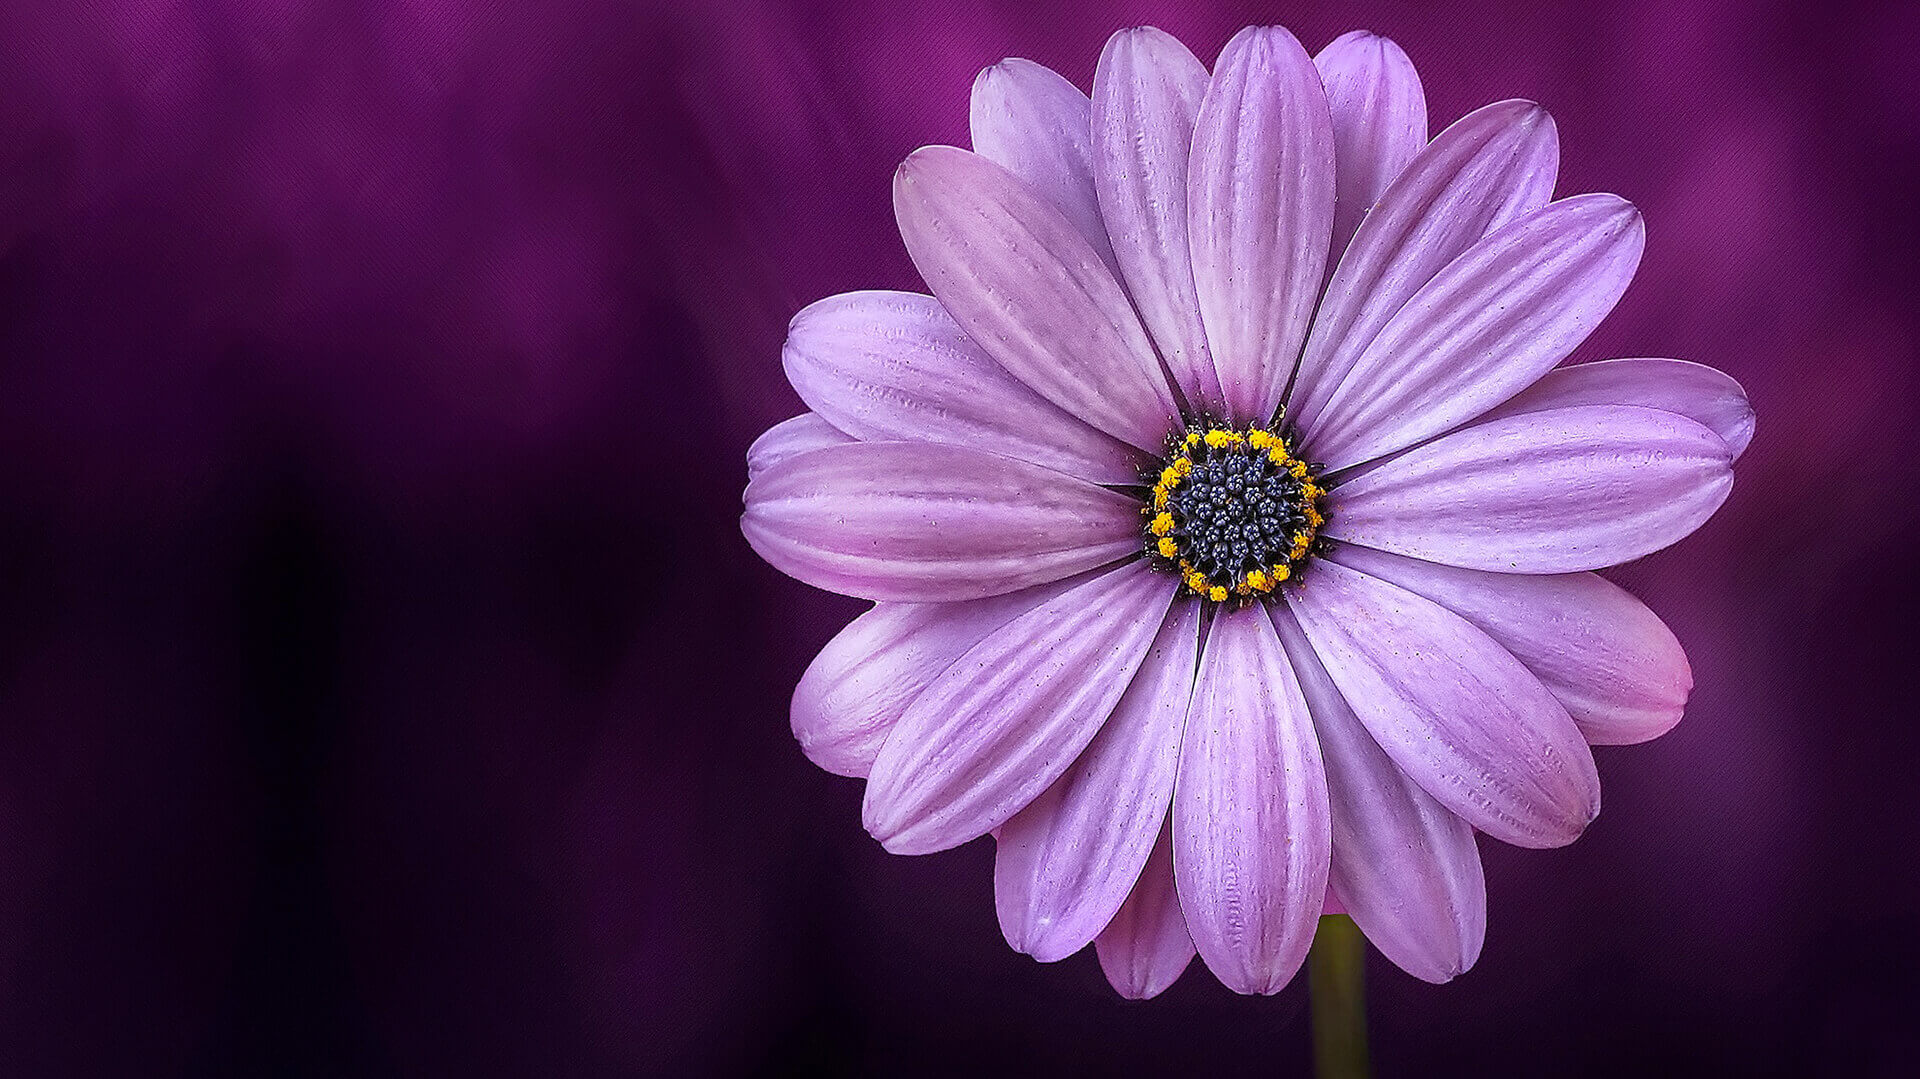
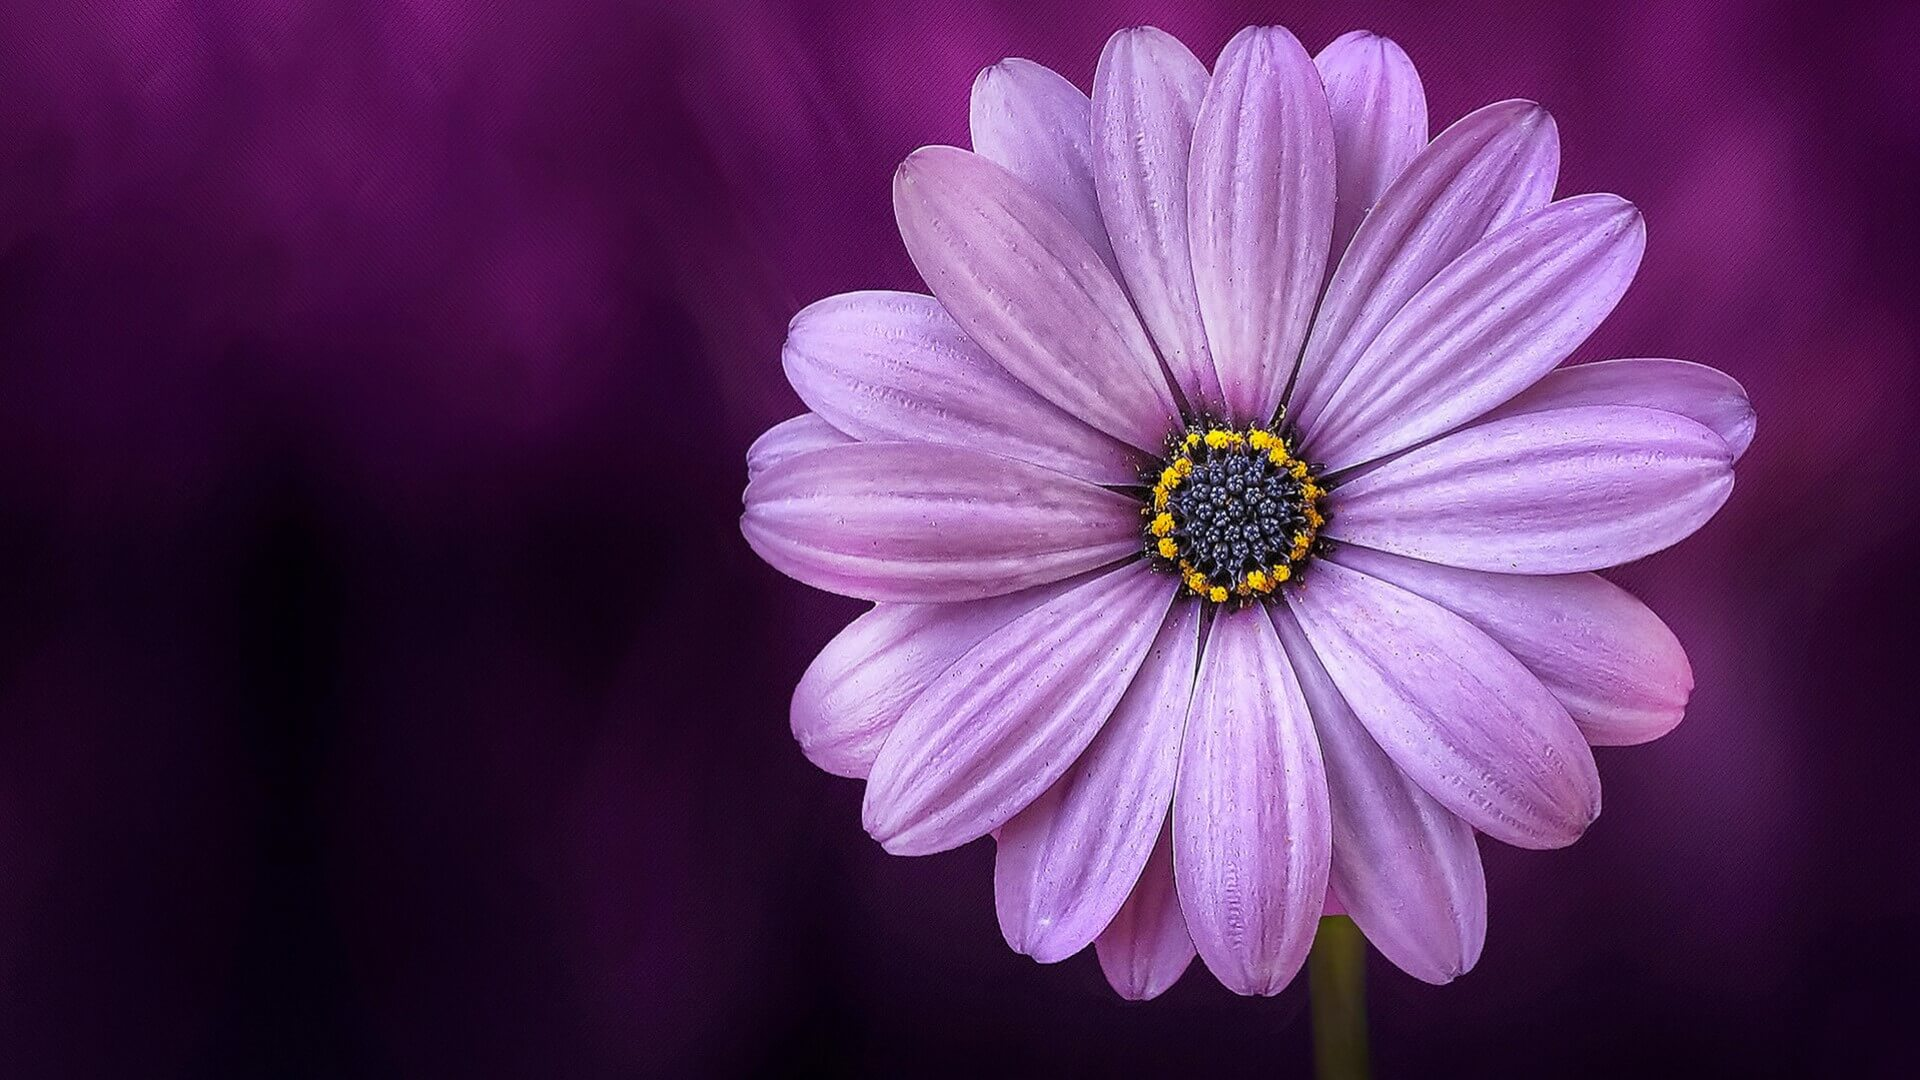
minor optimization and update

diff --git a/index.html b/index.html
@@ -130,7 +130,7 @@
         <!-- Cascade Style Sheets Files (CSS)-->
         <!-- Google Fonts-->
         <link href="https://fonts.googleapis.com/css?family=Merriweather+Sans:400,700&display=swap" rel="stylesheet preload" as="style" type="text/css" crossorigin="anonymous" media="all" />
-        <link href="https://fonts.googleapis.com/css?family=Merriweather:400,300,300italic,400italic,700,700italic&display=swap" rel="stylesheet preload" as="style" type="text/css" crossorigin="anonymous" media="all" />      
+        <link href="https://fonts.googleapis.com/css?family=Merriweather:400,300,300italic,400italic,700,700italic&display=swap" rel="stylesheet preload" as="style" type="text/css" crossorigin="anonymous" media="all" />
         <!-- Core Theme CSS (Includes Bootstrap 5.1.0)-->
         <link href="css/styles.css" rel="stylesheet" type="text/css" />
         <!-- END Cascade Style Sheets Files (CSS)-->
@@ -186,7 +186,7 @@
             .bg-ps {
                 padding-top: 10rem;
                 padding-bottom: calc(10rem - 0px);
-                background: linear-gradient(to bottom, rgba(92, 77, 66, 0.8) 0%, rgba(92, 77, 66, 0.8) 100%), url("assets/img/camomile-flower.jpg");
+                background: linear-gradient(to bottom, rgba(92, 77, 66, 0.8) 0%, rgba(92, 77, 66, 0.8) 100%), url("assets/img/camomile-flower.webp");
                 background-position: center;
                 background-repeat: no-repeat;
                 background-attachment: scroll;
@@ -762,7 +762,7 @@
                     <div class="col-lg-8 text-center">
                         <h2 class="text-white mt-0">We've Got What You Need!</h2>
                         <hr class="divider divider-light" />
-                        <p class="text-white-75 mb-4">Cloud hosting with an unlimited plan and a domain name in a zone of your choice are provided free of charge when ordering a turnkey website. Cloudflare is included as well.</p>
+                        <p class="text-white-75 mb-4" style="font-size: 120%;">Cloud hosting with an unlimited plan and a domain name in a zone of your choice are provided free of charge when ordering a turnkey website. Cloudflare is included as well.</p>
                         <a class="btn btn-light btn-xl btn-std btn-act" href="#contact" title="Place an Order Online">Order Now</a>
                     </div>
                 </div>
@@ -811,17 +811,14 @@
             <div class="container" id="logo">
                 <div style="text-align:center; padding-bottom: 32px;">
                     <a href="/" title="codexgq - Moving The Web">
-                    <picture>
-                        <source srcset="assets/img/logo-thumbnail.webp" type="image/webp" style="width:384px; height:216px">
-                        <img src="assets/gifs/defer.gif" data-src="assets/img/logo-thumbnail.png" style="width:384px; height:216px" alt="Logotype" aria-hidden="true" />
-                    </picture>
+                        <img src="assets/gifs/defer.gif" data-src="assets/img/logo-thumbnail.webp" style="width:384px; height:216px" alt="Logotype" aria-hidden="true" />
                     </a>
                 </div>
                 <!-- .logo-->
                 <h4 style="text-align:center;">
                     <small>
-                        <a class="txt-primary" style="text-decoration:none; padding-right: 11px;" href="https://codex.gq/" title="Home Page (English, Английский язык)">EN</a>|
-                        <a class="txt-primary" style="text-decoration:none; padding-left: 8px;" href="https://codex.gq/ru/" title="Russian (Русский язык)">RU</a>
+                        <a class="text-success" style="text-decoration:none; padding-right: 11px;" href="https://codex.gq/" title="Home Page (English, Английский язык)">EN</a>|
+                        <a class="text-primary" style="text-decoration:none; padding-left: 8px;" href="https://codex.gq/ru/" title="Russian (Русский язык)">RU</a>
                     </small>
                 </h4>
                 <!-- .languages-->
@@ -844,7 +841,7 @@
                     </div>
                     <!-- .col-->
                     <div class="col-lg-2 col-md-4 mb-5 mb-md-0">
-                        <div class="text-uppercase text-muted text-xs mb-4"><h6>Legal</h6></div>
+                        <div class="text-uppercase text-muted text-xs mb-4"><h2 style="font-size: 120%;">Legal</h2></div>
                         <ul class="list-unstyled mb-0">
                             <li class="mb-2">
                                 <a style="text-decoration:none;" href="javascript:void(0);">Privacy</a>
@@ -874,16 +871,14 @@
         <!-- END SITE CONTENT-->
         <!-- Defer Cascade Style Sheets Files (CSS)-->
         <script>
-            deferstyle('https://cdn.jsdelivr.net/npm/bootstrap-icons@1.6.0/font/bootstrap-icons.css', 3000); // Bootstrap Icons
+            deferstyle('https://cdn.jsdelivr.net/npm/bootstrap-icons@1.6.0/font/bootstrap-icons.css', rel="preload", as="font", 1000); // Bootstrap Icons
         </script>
-        <!-- Defer JavaScript Files (JS)-->
-        <script>
-            deferscript('https://cdn.jsdelivr.net/npm/bootstrap@5.1.3/dist/js/bootstrap.bundle.min.js', 1200) // Bootstrap Core JS
-        </script>
+        <!-- Bootstrap Core JS-->
+        <script async src="https://cdn.jsdelivr.net/npm/bootstrap@5.1.0/dist/js/bootstrap.bundle.min.js"></script>
         <!-- Core Theme JS-->
         <script defer src="js/scripts.js"></script>
         <!-- Inline JavaScript (JS)-->
-        <!-- Lazy Load Media-->
+        <!-- Lazy Load Images-->
         <script>
             deferimg('img[data-src],picture[srcset]')
         </script>
@@ -965,7 +960,7 @@
     <!-- This website and its content are build by codexgq Team based on the Creative theme by Start Bootstrap and licensed under the MIT License.
         *
         * codexgq - Moving The Web (https://codex.gq)
-        * Created and maintained by Alexey Mitkin (GitHub: https://github.com/mitkine)
+        * Created and maintained by mitkine a.k.a. computer god (GitHub: https://github.com/mitkine)
         * Copyright 2014-2021 codexgq, Inc.
         * GitHub: https://github.com/codexgq/startbootstrap-creative-codexgq
         *

diff --git a/superpwa-sw.js b/superpwa-sw.js
@@ -10,14 +10,23 @@ const cacheName = 'codex.gq-superpwa-2.0.2';
 const startPage = 'https://codex.gq/';
 const offlinePage = 'https://codex.gq/index.html';
 const filesToCache = [startPage, offlinePage];
-const neverCacheUrls = [/\/src/];
+const resourcesToCache = [
+	'favicon.ico',
+	'site.webmanifest',
+	'css/styles.css',
+	'js/scripts.js',
+	'assets/img/bg-masthead.jpg',
+	'assets/img/camomile-flower.webp',
+	'assets/img/logo-thumbnail.webp'
+  ];
+const neverCacheUrls = [/\/scripts/,/\/src/,/\/.editorconfig/,/\/.gitignore/,/\/LICENSE/,/\/package.json/,/\/package-lock.json/,/\/README.md/];
 
 // Install
 self.addEventListener('install', function(e) {
-	console.log('SuperPWA service worker installation');
+	console.log('SuperPWA service worker installation.');
 	e.waitUntil(
 		caches.open(cacheName).then(function(cache) {
-			console.log('SuperPWA service worker caching dependencies');
+			console.log('SuperPWA service worker caching dependencies.');
 			filesToCache.map(function(url) {
 				return cache.add(url).catch(function (reason) {
 					return console.log('SuperPWA: ' + String(reason) + ' ' + url);
@@ -29,12 +38,12 @@ self.addEventListener('install', function(e) {
 
 // Activate
 self.addEventListener('activate', function(e) {
-	console.log('SuperPWA service worker activation');
+	console.log('SuperPWA service worker activation.');
 	e.waitUntil(
 		caches.keys().then(function(keyList) {
 			return Promise.all(keyList.map(function(key) {
 				if ( key !== cacheName ) {
-					console.log('SuperPWA old cache removed', key);
+					console.log('SuperPWA old cache removed.', key);
 					return caches.delete(key);
 				}
 			}));

diff --git a/ru/index.html b/ru/index.html
@@ -151,11 +151,11 @@
         </p>
         <br />
         <small>
-            <a href="https://codex.gq/" title="Home Page (English, Английский язык)">Home</a>
+            <a href="https://codex.gq/" title="Home Page (English, Английский язык)">Home (Главная страница)</a>
                 &nbsp;|&nbsp;
             <a href="https://codex.gq/ru/" title="Russian (Русский язык)">Russian (Русский язык)</a>
                 &nbsp;|&nbsp;
-                <a href="https://store.codex.gq/" title="CodexHost™">Хостинг и домены</a>
+                <a href="https://store.codex.gq/" title="CodexHost™">Store (Хостинг и домены)</a>
                 &nbsp;|&nbsp;
             <a href="https://github.com/codexgq" title="GitHub">
                 GitHub
